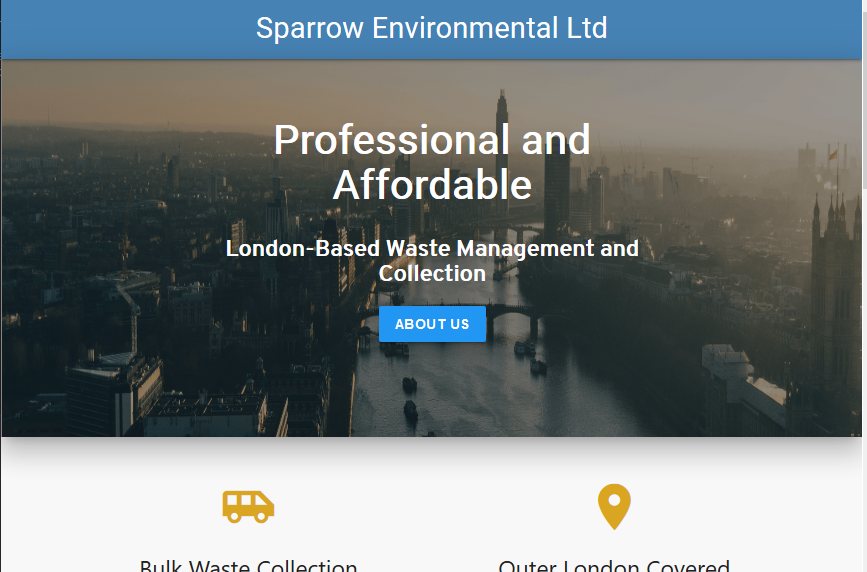
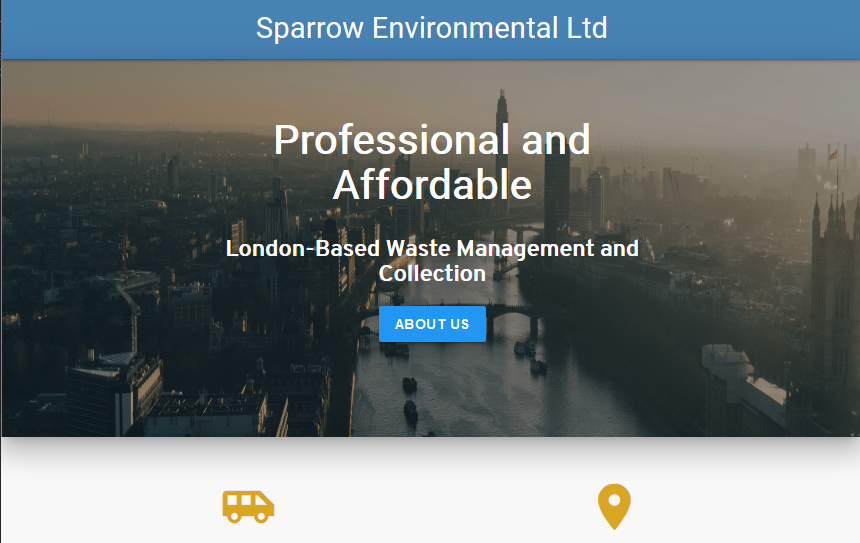
added new images for thumbnails and modals, changed splash image

diff --git a/Question.html b/Question.html
@@ -2,6 +2,7 @@
 <html lang="en">
   <head>
     <meta charset="utf-8" />
+    <meta name="viewport" content="width=device-width, initial-scale=1">
     <link rel="stylesheet" href="https://stackpath.bootstrapcdn.com/bootstrap/4.3.1/css/bootstrap.min.css" integrity="sha384-ggOyR0iXCbMQv3Xipma34MD+dH/1fQ784/j6cY/iJTQUOhcWr7x9JvoRxT2MZw1T" crossorigin="anonymous">
     <link rel="stylesheet" href="Question.css" />
     <title>Test</title>
@@ -9,33 +10,39 @@
   <body>
       <header>
           <nav class="navbar z-index:1 navbar-expand-lg navbar-light bg-light">
-              <a class="navbar-brand" href="#">Invisitext!</a>
+              <a class="navbar-brand" href="#">.</a>
               <button class="navbar-toggler" type="button" data-toggle="collapse" data-target="#navbarToggler" aria-controls="navbarToggle" aria-expanded="false" aria-label="Toggle navigation">
                 <span class="navbar-toggler-icon"></span>
               </button>         
               <div class="collapse navbar-collapse" id="navbarToggler">
                   <ul class="navbar-nav ml-auto justify-content-between">
                     <li class="nav-item">
-                       <a class="nav-link contact" href="#">Contact</a>
+                      <span class="nav-link hidden-desktop">Contact</span>
                     </li>
                     <li class="nav-item">
-                      <a class="nav-link" href="#"><img src="img/twitter.svg" /></a>
+                      <a class="nav-link" href="https://twitter.com/HowtoreadUK">
+                        <img src="img/twitter.svg" />
+                        <span>Twitter</span>
+                      </a>
                     </li>
                     <li class="nav-item">
-                      <a class="nav-link" href="#"><img src="img/git.svg" /></a>
+                      <a class="nav-link" href="https://github.com/CountercheckL"><img src="img/git.svg" />
+                      <span>Github</span>
+                      </a>
                     </li>
                     <li class="nav-item">
-                      <a class="nav-link" href="#"><img class="mail" src="img/mail.svg" /></a>
+                      <a class="nav-link" href="mailto:laurencecollins@hotmail.co.uk"><img class="mail" src="img/mail.svg" />
+                        <span>Email</span>
+                      </a>
                     </li>
                   </ul>
                 </div>
               </nav>
       </header>
 
-      <!-- Modals -->
         <div class="modal fade text-center" id="GenrepromptModal" tabindex="-1" role="dialog" aria-labelledby="exampleModalLabel" aria-hidden="true">
           <div class="modal-dialog">
-            <img class="bigpicture" src="genre.png" />  
+            <img class="bigpicture" src="genreprompt.png" />  
           </div>
         </div>
 
@@ -45,14 +52,13 @@
             </div>
           </div>
 
-        <div class="modal fade text-center" id="exampleModal" tabindex="-1" role="dialog" aria-labelledby="exampleModalLabel" aria-hidden="true">
+        <div class="modal fade text-center" id="ExampleModal" tabindex="-1" role="dialog" aria-labelledby="exampleModalLabel" aria-hidden="true">
           <div class="modal-dialog">
            <img class="bigpicture" src="genre.png" />  
           </div>
         </div>
 
-       <div class="splash-art">
-        <img class="splash" src="cc.jpg" />
+       <div class="splash-container">
         <h2 class="bg-text-title">Laurence Collins</h2>
         <span class="bg-text-subtitle">London, U.K</span>
       </div>
@@ -60,14 +66,11 @@
       <div class="container">
         <div class="about">
           <h2>About</h2>
-          <p> A creative and amiable person with a passion for learning new things. I’ve been 
-            teaching myself web development for a little over a year and am currently keen 
-            to see what I can pick up in a professional setting. I have X years of experience
-            working in various office environments (often in tech-orientated roles) and 
-            feel ready to move into a different occupation and industry. While working in
-              these environments I considered myself a quick-leaner who worked best in a
-              team-focused support role.
-              Ideally, I am looking for a junior developer role where I can further develop my skills.</p>
+          <p>Hi! My name is Laurence, based in the U.K, and I’ve been teaching myself 
+            web development for a little over a year now.</p>
+            <p>Currently looking for my first professional role in the field, although I have already done 
+              some commerical work independantly.</p>
+          <p>In terms of tech, I'm familiar with HTML, CSS, Javascript, React, Python and Django.</p>
         </div>
      
       <div className="project-list">
@@ -75,56 +78,37 @@
         <br />
           <div class="card genreprompt">
             <div class="row">
-            <div class="genreprompt-text col-md-6 col-sm-12">
+            <div class="genreprompt-text col-lg-6 col-sm-12">
               <h5>Genreprompt</h5>  
-              <p>  
-                    This is a small mobile-first web application designed to help writers out who are 
+              <p>  This is a mobile-first web application designed to help writers out who are 
                     struggling with ideas for their next project. The user can select a genre of 
                     choice from the list (or leave it as ‘random’) and the site will randomly 
                     generate a set of story ideas from a collection of arrays, fitting them into 
-                    a template. The user also has the option to take notes on their idea in a 
-                    text-field and can save said notes into a .txt file using the button provided.
-                    The project is built in HTML, CSS and React, and uses Materialize for styling.</p>
-                    <p>
-                    This project is live! (Link here)
-                    (Hosted on Heroku)</p>           
+                    a template. I also added a button that lets the user save their 
+                    own notes into a .txt file.</p>
+                    <p>The project is built in HTML, CSS and React, and uses Materialize for styling.
+                      (Hosted on Heroku.)</p>
+                      <a href="http://genreprompt.co.uk">
+                        <button type="button" class="btn btn-info">This Project is Live!</button>
+                      </a>
                 </div>
-            <div class="genreprompt-image col-md-6 col-sm-12">
-                <img data-toggle="modal" data-target="#GenrepromptModal" src="genre.png" class="smoll-image" />
+            <div class="image-container col-lg-6 col-sm-12">
+                <img data-toggle="modal" data-target="#GenrepromptModal" src="genreprompt.png" class="smoll-image" />
             </div>
           </div>
           </div>
          <br />
          <div class="sparrow card">
             <div class="row">
-            <div class="sparrow-text col-md-6 col-sm-12">
+            <div class="sparrow-text col-lg-6 col-sm-12">
               <h5>Sparrow Environmental Ltd</h5>
                 <p>This is a company website designed for a waste management 
                     organisation based in London. It is a two-page site, and 
-                    was designed with HTML, CSS, React and the Materialize framework.
-                      This project is not yet live, but will be hosted on Netlify.</p>
-                    </div>
-            <div class="sparrow-image col-md-6 col-sm-12">
-              <img data-toggle="modal" data-target="#SparrowModal" src="sparrow small.png" class="smoll-image" />
-            </div>
-          </div>
-          </div>
-         <br />
-         <div class="notepad card justify-content-around">
-           <div class="row">
-            <div class="notepad-text col-md-6 col-sm-12">
-                <h5>Writers' Notepad</h5>
-                <p>This is a simple full-stack project designed to help writers take 
-                    notes during Nanowrimo (or other writing events.) Each note can be 
-                    assigned a category and the app will automatically sort the projects 
-                    by said category. There are also ‘default’ categories to select,
-                     such as ‘world building,’ ‘characters’ and ‘locations.’ Notes are
-                      stored in a PostgreSQL database which communicates with Django.
-                    This app was built with HTML, CSS, React, Django, PostgreSQL and Bootstrap.
-                    This project is not live, but you can download it from github.com/43232</p>
+                    was designed with HTML, CSS, React and the Materialize framework.</p>
+                      <button type="button" class="btn btn-secondary" disabled>Not Yet Live</button>
                 </div>
-              <div class="notepad-image col-md-6 col-sm-12">
-              <img class="image-box" src="genre.png" />
+            <div class="image-container col-lg-6 col-sm-12">
+              <img data-toggle="modal" data-target="#SparrowModal" src="sparrow small.png" class="smoll-image" />
             </div>
           </div>
           </div>

diff --git a/Question.css b/Question.css
@@ -1,56 +1,48 @@
 body {
     text-align: center; 
-}
+    margin: 0;
+    flex-direction: column;
+    min-height: 100vh;
 
-.container {
-    width: 80%;
 }
 
 .navbar {
     width: 100%;
     z-index: 5;
+    text-align: left !important; 
 }
+
 
 .navbar-brand {
     color: #f8f9fa !important;    
 }
 
 
-.splash-art {
+@media screen and (min-width: 1000px) {
+    .hidden-desktop  { display: none; }
+
+}
+
+.splash-container {
     width: 100%;
-    height: 24rem;
-    overflow: hidden;
+    height: 21rem;
+    background-image: url("comp copy.jpg");
     color: white;
     border-bottom: 4px solid red;
     border-top: 4px solid red;
+    text-align: center !important;
+    font-family: sans-serif;
 }
 
-
-.splash {
-    width: 100%;
-    overflow: hidden;
-    filter: blur(4px);
-    -webkit-filter: blur(4px);
-    
-    }
-
 .bg-text-title {
-    position: absolute;
-    top: 24%;
-    left: 50%;
-    transform: translate(-50%, -50%);
-    font-family: sans-serif;
+    font-size: 3rem;
+    line-height: 3.5;
     font-weight: bold;
   }
 
 .bg-text-subtitle {
-    position: absolute;
-    top: 33%;
-    left: 50%;
     font-size: 2rem;
-    transform: translate(-50%, -50%);
-    font-family: sans-serif;
-    font-weight: bold;
+    line-height: .5;
 }
 
 .about {
@@ -66,22 +58,21 @@ body {
     text-align: center;
 }
 
-.image-box {
-    width: 100%;
-    height: auto;
-}
-
 .card {
     padding: 3rem;
 }
 
+.image-container {
+    padding: 0px;
+}
 
 .smoll-image {
-    height: 20rem;
-    width: auto;
+    height: auto;
+    width: 70%;
     transition: 0.5s;
     padding: 15px;
 }
+
 
 .smoll-image:hover {
     transform: scale(1.1);
@@ -89,7 +80,6 @@ body {
 
 .modal-dialog {
     left: -10rem;
-     
 }
 
 .bigpicture {
